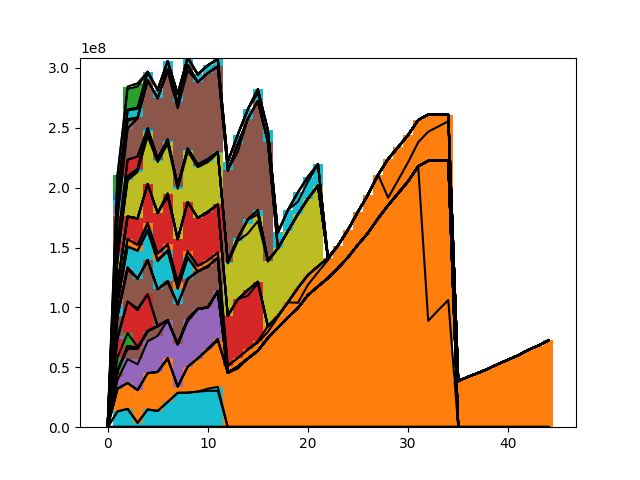
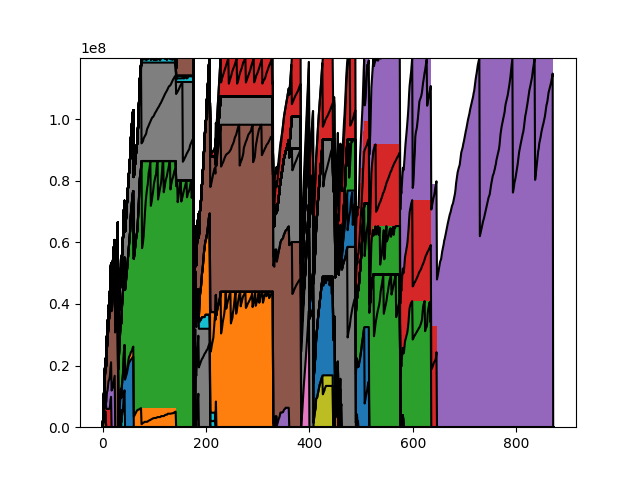
save

diff --git a/src/main.cpp b/src/main.cpp
@@ -204,73 +204,108 @@ NLOHMANN_DEFINE_TYPE_NON_INTRUSIVE(RuntimeStat, max_memory, current_memory)
 struct RuntimeTrace {
   size_t start;
   std::vector<RuntimeStat> stats;
+  RuntimeTrace(size_t start) : start(start) { }
 };
-using SimulatedExperimentResult = std::vector<std::vector<RuntimeStat>>;
-using NewSimulatedExperimentResult = std::vector<RuntimeTrace>;
+
+NLOHMANN_DEFINE_TYPE_NON_INTRUSIVE(RuntimeTrace, start, stats)
+
+using SimulatedExperimentResult = std::vector<RuntimeTrace>;
 
 using SimulatedRuntime = std::shared_ptr<SimulatedRuntimeNode>;
 using SimulatedRuntimes = std::vector<SimulatedRuntime>;
 
-void run_simulated_experiment(const Controller& c, const SimulatedRuntimes& runtimes, size_t print_frequency, size_t log_frequency) {
+struct SimulatedExperimentConfig {
+  // none for no print
+  std::optional<size_t> print_frequency;
+  // none for no log
+  std::optional<size_t> log_frequency;
+  // none for no restriction
+  std::optional<size_t> num_of_cores;
+};
+
+void run_simulated_experiment(const Controller& c, const SimulatedRuntimes& runtimes, const SimulatedExperimentConfig& cfg) {
+  struct Process {
+    SimulatedRuntime r;
+    RuntimeTrace t;
+  };
+
+  auto l = c->lock();
+  SimulatedRuntimes unstarted_runtimes;
+  std::vector<RuntimeTrace> finished_traces;
+  std::vector<Process> running_processes;
+
+  size_t total_work = 0;
   for (const auto& r: runtimes) {
-    c->add_runtime(r, c->lock());
+    unstarted_runtimes.push_back(r);
+    total_work += r->work_amount;
   }
-  SimulatedExperimentResult ret;
+
   size_t i = 0;
 
   size_t tick = 0;
   size_t tick_in_gc = 0;
   size_t tick_since_print = 0;
   size_t tick_in_gc_since_print = 0;
-  struct RuntimeGCTick {
-    size_t tick = 0;
-    size_t tick_in_gc = 0;
-  };
+
+  while((!cfg.num_of_cores || running_processes.size() < *cfg.num_of_cores) && !unstarted_runtimes.empty()) {
+    SimulatedRuntime r = unstarted_runtimes.back();
+    unstarted_runtimes.pop_back();
+    assert(!r->is_done());
+    c->add_runtime(r, l);
+    running_processes.push_back({r, RuntimeTrace(0)});
+  }
+  assert(!cfg.num_of_cores || *cfg.num_of_cores > 0);
   for (bool has_work=true; has_work; ++i) {
-    std::vector<RuntimeStat> slice;
     has_work=false;
     size_t total_memory = 0, total_live_memory = 0;
-    size_t total_work = 0, total_work_done = 0;
-    size_t working_process = 0;
-    for (const auto&r : runtimes) {
-      slice.push_back({r->max_memory(), r->current_memory()});
-      total_work += r->work_amount;
-      total_work_done += r->mutator_time;
+    for (auto& p : running_processes) {
+      auto& r = p.r;
+      if (cfg.log_frequency && i % *cfg.log_frequency == 0) {
+        p.t.stats.push_back({r->max_memory(), r->current_memory()});
+      }
       total_memory += r->max_memory();
       total_live_memory += r->current_memory();
+    }
+    assert(total_memory == c->used_memory(l));
+    size_t remaining_processes = running_processes.size() + unstarted_runtimes.size();
+    for (size_t j = 0; j < running_processes.size();) {
+      auto& p = running_processes[j];
+      auto& r = p.r;
       if (!r->is_done()) {
-        working_process++;
+        has_work=true;
+        r->tick();
         tick++;
         tick_since_print++;
         if (r->in_gc) {
           tick_in_gc++;
           tick_in_gc_since_print++;
         }
+        ++j;
+      } else {
+        std::swap(p, running_processes.back());
+        finished_traces.push_back(running_processes.back().t);
+        running_processes.pop_back();
+        if (!unstarted_runtimes.empty()) {
+          SimulatedRuntime r = unstarted_runtimes.back();
+          unstarted_runtimes.pop_back();
+          assert(!r->is_done());
+          c->add_runtime(r, l);
+          running_processes.push_back({r, RuntimeTrace(cfg.log_frequency ? i / *cfg.log_frequency : 0)});
+        }
       }
     }
-    assert(total_memory == c->used_memory(c->lock()));
-    if (i % print_frequency == 0) {
-      size_t max_memory = c->max_memory(c->lock());
+    if (cfg.print_frequency && i % *cfg.print_frequency == 0) {
+      size_t max_memory = c->max_memory(l);
       std::cout <<
         "iteration:" << i <<
-        ", total work done: " << total_work_done <<
-        ", work done:" << total_work_done * 100 / total_work << "%" <<
+        ", total work done: " << (tick - tick_in_gc) <<
+        ", work done:" << (tick - tick_in_gc) * 100 / total_work << "%" <<
         ", live memory utilization:" << 100 * total_live_memory / max_memory << "%"
         ", memory utilization:" << 100 * total_memory / max_memory << "%" <<
         ", gc rate:" << 100 * tick_in_gc_since_print / tick_since_print << "%" <<
-        ", working process:" << working_process << std::endl;
+        ", remaining process:" << remaining_processes << std::endl;
       tick_since_print = 0;
       tick_in_gc_since_print = 0;
-    }
-    if (i % log_frequency == 0) {
-      ret.push_back(slice);
-      size_t max_memory = c->max_memory(c->lock());
-    }
-    for (const auto&r : runtimes) {
-      if (!r->is_done()) {
-        r->tick();
-        has_work=true;
-      }
     }
   }
   std::cout <<
@@ -278,7 +313,9 @@ void run_simulated_experiment(const Controller& c, const SimulatedRuntimes& runt
     ", total ticks taken: " << tick <<
     ", total ticks spent gcing: " << tick_in_gc <<
     ", gc rate: " << 100 * tick_in_gc / tick << "%" << std::endl << std::endl;
-  log_json(ret);
+  if (cfg.log_frequency) {
+    log_json(finished_traces);
+  }
 }
 
 // todo: noise (have number fluctuate)
@@ -291,7 +328,10 @@ void run_simulated_experiment_prepare(const Controller& c) {
   runtimes.push_back(std::make_shared<SimulatedRuntimeNode>(/*work_=*/100, /*max_working_memory_=*/make_const(0), /*garbage_rate_=*/make_const(1), /*gc_duration_=*/make_const(5)));
   runtimes.push_back(std::make_shared<SimulatedRuntimeNode>(/*work_=*/100, /*max_working_memory_=*/make_const(0), /*garbage_rate_=*/make_const(1), /*gc_duration_=*/make_const(3)));
   runtimes.push_back(std::make_shared<SimulatedRuntimeNode>(/*work_=*/100, /*max_working_memory_=*/make_const(0), /*garbage_rate_=*/make_const(1), /*gc_duration_=*/make_const(2)));
-  run_simulated_experiment(c, runtimes, 1, 1);
+  SimulatedExperimentConfig cfg;
+  cfg.print_frequency = 1;
+  cfg.log_frequency = 1;
+  run_simulated_experiment(c, runtimes, cfg);
 }
 
 using Log = std::vector<v8::GCRecord>;
@@ -381,9 +421,9 @@ SimulatedRuntime from_log(const Log& log) {
 }
 
 void run_logged_experiment() {
-  Controller c = std::make_shared<BalanceControllerNode>();
-  //Controller c = std::make_shared<FirstComeFirstServeControllerNode>();
-  c->set_max_memory(3.1e8, c->lock());
+  //Controller c = std::make_shared<BalanceControllerNode>();
+  Controller c = std::make_shared<FirstComeFirstServeControllerNode>();
+  c->set_max_memory(1.2e8, c->lock());
   SimulatedRuntimes rt;
   for (boost::filesystem::recursive_directory_iterator end, dir(std::string(getenv("HOME")) + "/gc_log");
        dir != end; ++dir) {
@@ -391,7 +431,11 @@ void run_logged_experiment() {
       rt.push_back(from_log(parse_log(boost::filesystem::canonical(dir->path()).string())));
     }
   }
-  run_simulated_experiment(c, rt, 1000, 10000);
+  SimulatedExperimentConfig cfg;
+  cfg.print_frequency = 1000;
+  cfg.log_frequency = 10000;
+  cfg.num_of_cores = 4;
+  run_simulated_experiment(c, rt, cfg);
 }
 
 void simulated_experiment() {

diff --git a/src/runtime.cpp b/src/runtime.cpp
@@ -14,7 +14,7 @@ void RuntimeNode::done() {
   if (!done_) {
     done_ = true;
     if (controller) {
-      controller->remove_runtime(shared_from_this(), controller->lock());
+      controller->remove_runtime(shared_from_this(), lock());
     }
     done_aux();
   }
@@ -39,6 +39,7 @@ size_t SimulatedRuntimeNode::needed_memory() {
 }
 
 void SimulatedRuntimeNode::tick() {
+  assert(controller);
   check_invariant();
   assert(!done_);
   if (in_gc) {
@@ -51,7 +52,7 @@ void SimulatedRuntimeNode::tick() {
         shrink_memory_pending = false;
         size_t old_max_memory = max_memory_;
         max_memory_ = current_memory_;
-        controller->free_max_memory(old_max_memory - max_memory_, controller->lock());
+        controller->free_max_memory(old_max_memory - max_memory_, lock());
       }
       tick();
     } else {
@@ -59,7 +60,7 @@ void SimulatedRuntimeNode::tick() {
     }
   } else if (need_gc()) {
     auto nm = needed_memory();
-    if (controller->request(shared_from_this(), nm, controller->lock())) {
+    if (controller->request(shared_from_this(), nm, lock())) {
       assert (! need_gc());
       mutator_tick();
     } else {

diff --git a/python/plot.py b/python/plot.py
@@ -23,18 +23,15 @@ def listadd(l, r):
 
 with open(path) as f:
     data = json.load(f)
+    def get_endtime(d):
+        return d['start'] + len(d['stats'])
+    endtime = max([get_endtime(d) for d in data])
     def get_property(name):
-        ret = None
-        for data_slice in data:
-            ret_slice = []
-            for point in data_slice:
-                ret_slice.append(point[name])
-            if not ret:
-                ret = []
-                for i in range(len(ret_slice)):
-                    ret.append([])
-            for i in range(len(data_slice)):
-                ret[i].append(ret_slice[i])
+        ret = []
+        for d in data:
+            x = d['start'] * [0] + [s[name] for s in d['stats']]
+            x = x + (endtime + 1 - len(x)) * [0]
+            ret.append(x)
         return ret
     max_memory = get_property("max_memory")
     current_memory = get_property("current_memory")

diff --git a/src/runtime.hpp b/src/runtime.hpp
@@ -6,7 +6,7 @@
 #include <any>
 #include <functional>
 
-#include "forward-decl.hpp"
+#include "controller.hpp"
 
 // higher score mean need less memory
 double memory_score(size_t working_memory, size_t max_memory, double garbage_rate, size_t gc_duration);
@@ -18,6 +18,10 @@ struct RuntimeNode : std::enable_shared_from_this<RuntimeNode> {
 protected:
   Controller controller;
   bool done_ = false;
+  ControllerNode::Lock lock() {
+    assert(controller);
+    return controller->lock();
+  }
 public:
   void done();
   virtual void done_aux() { }
